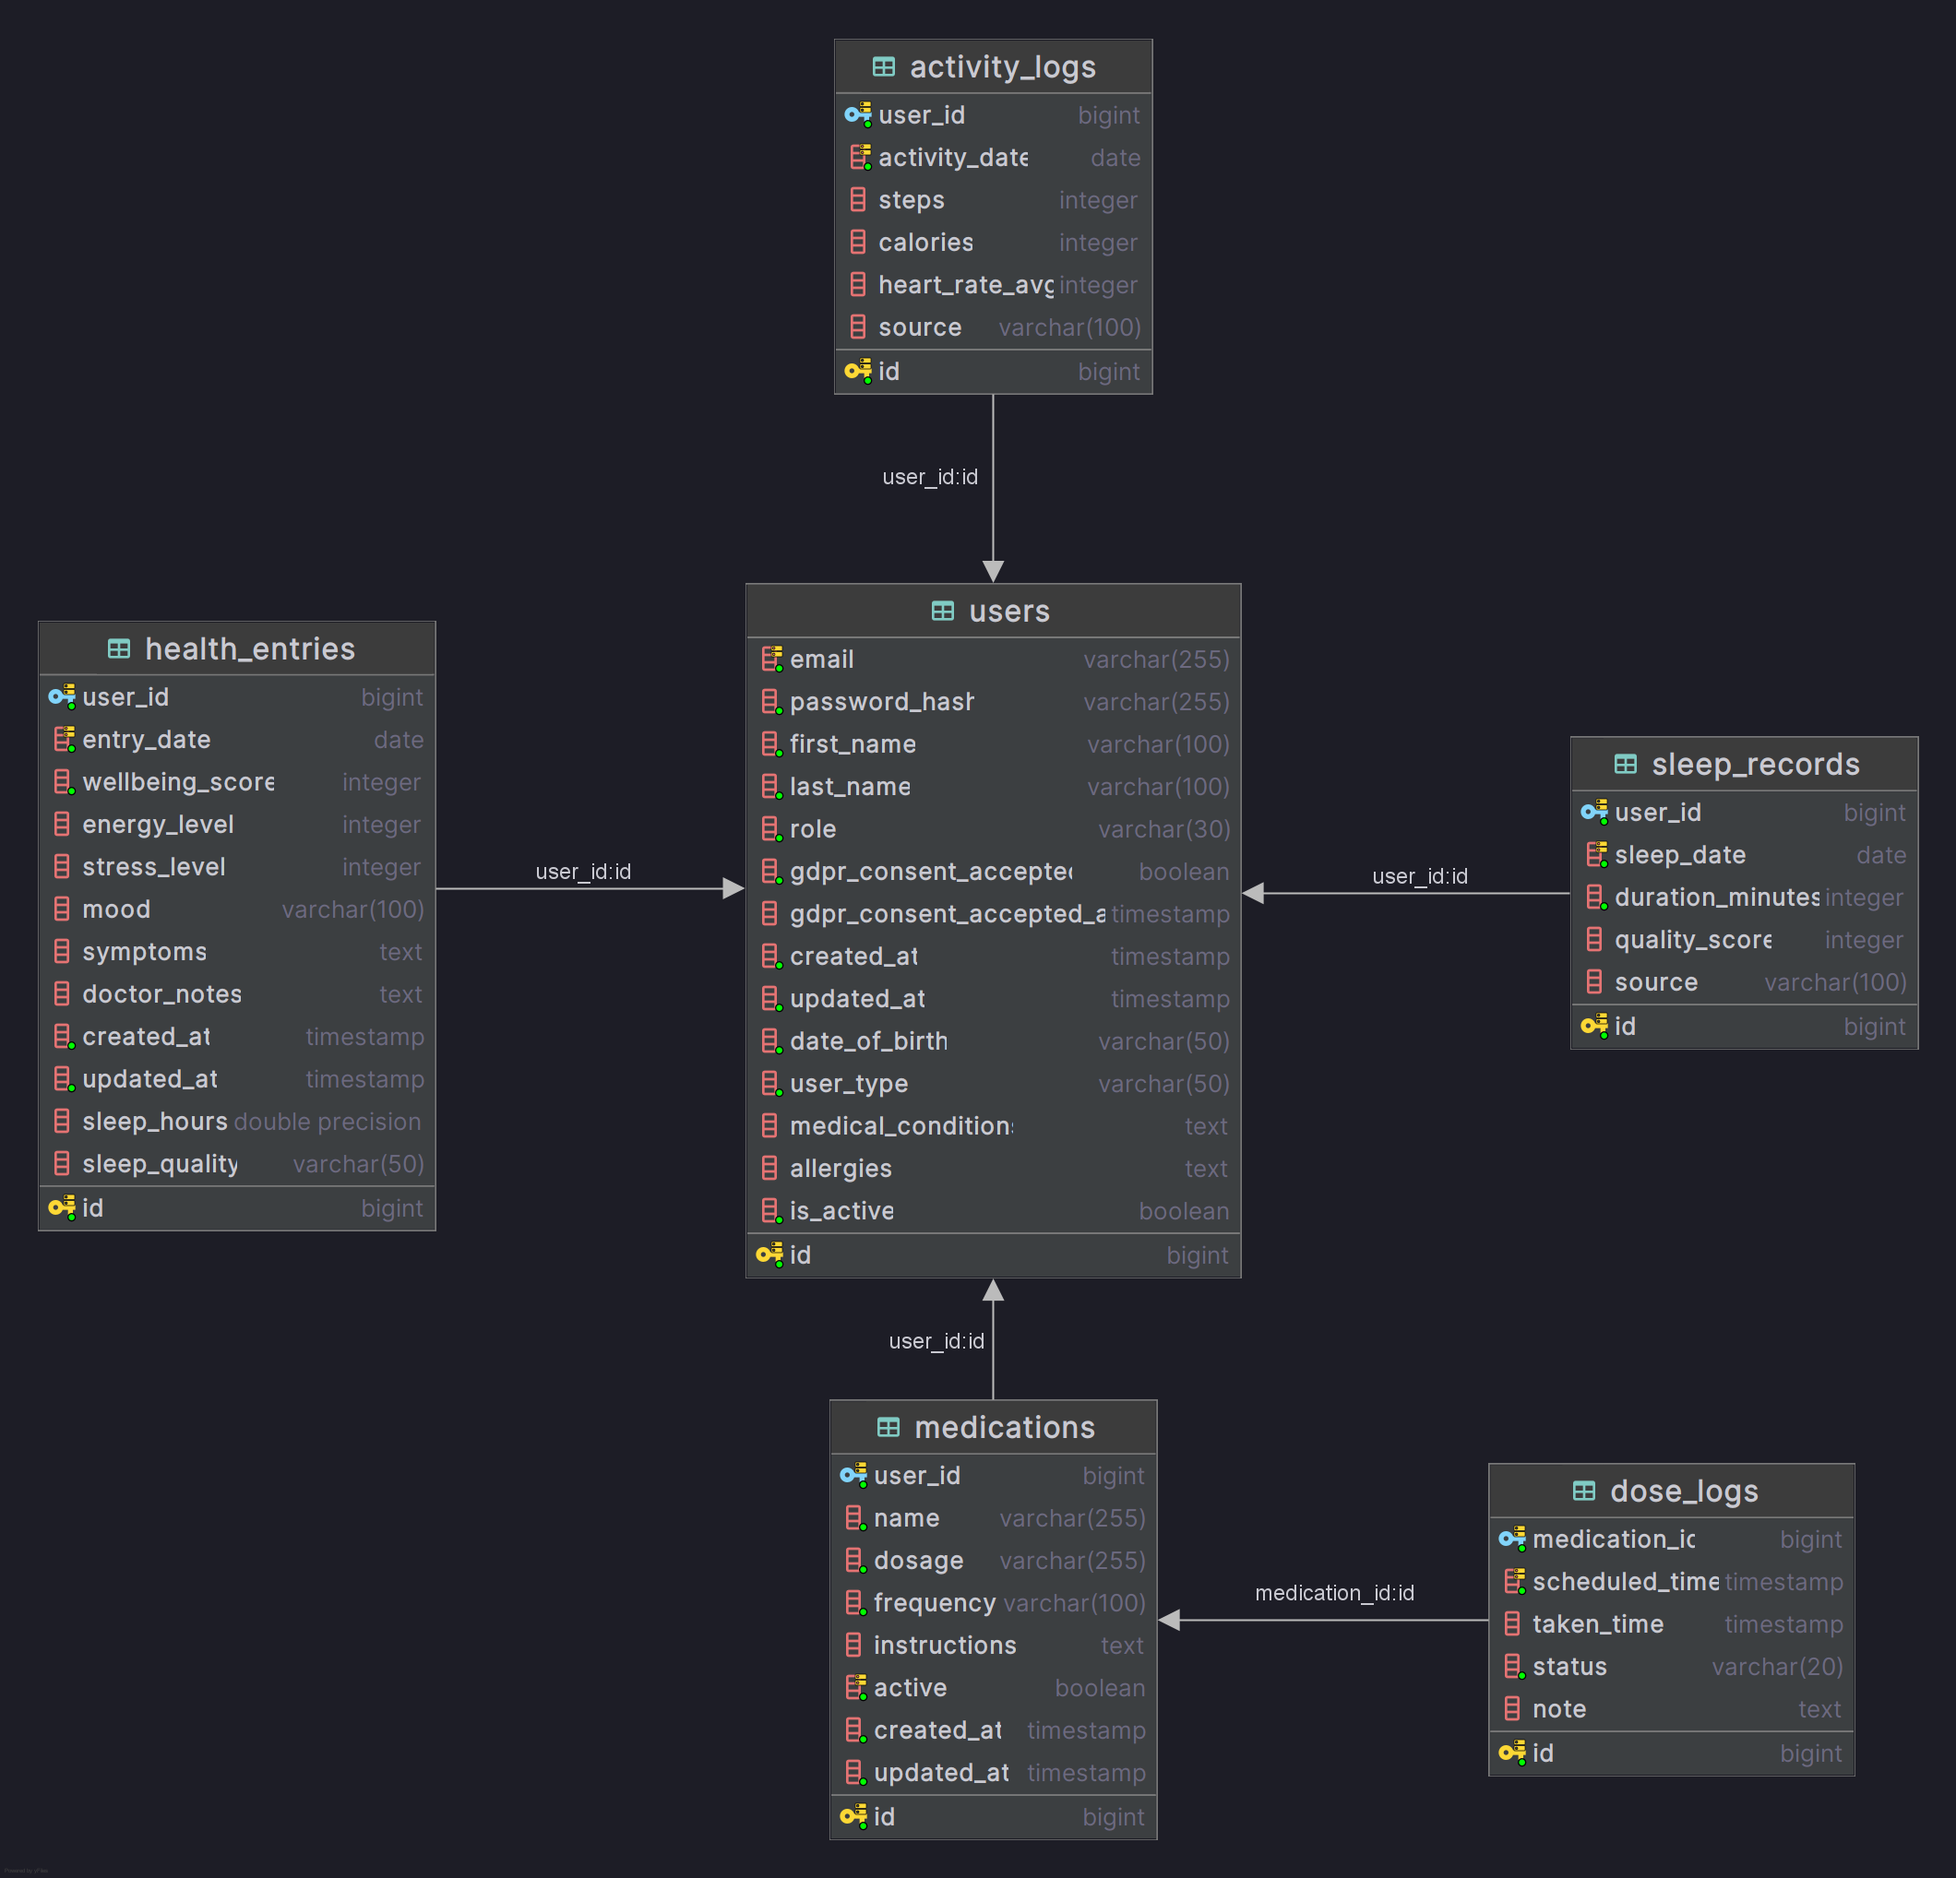
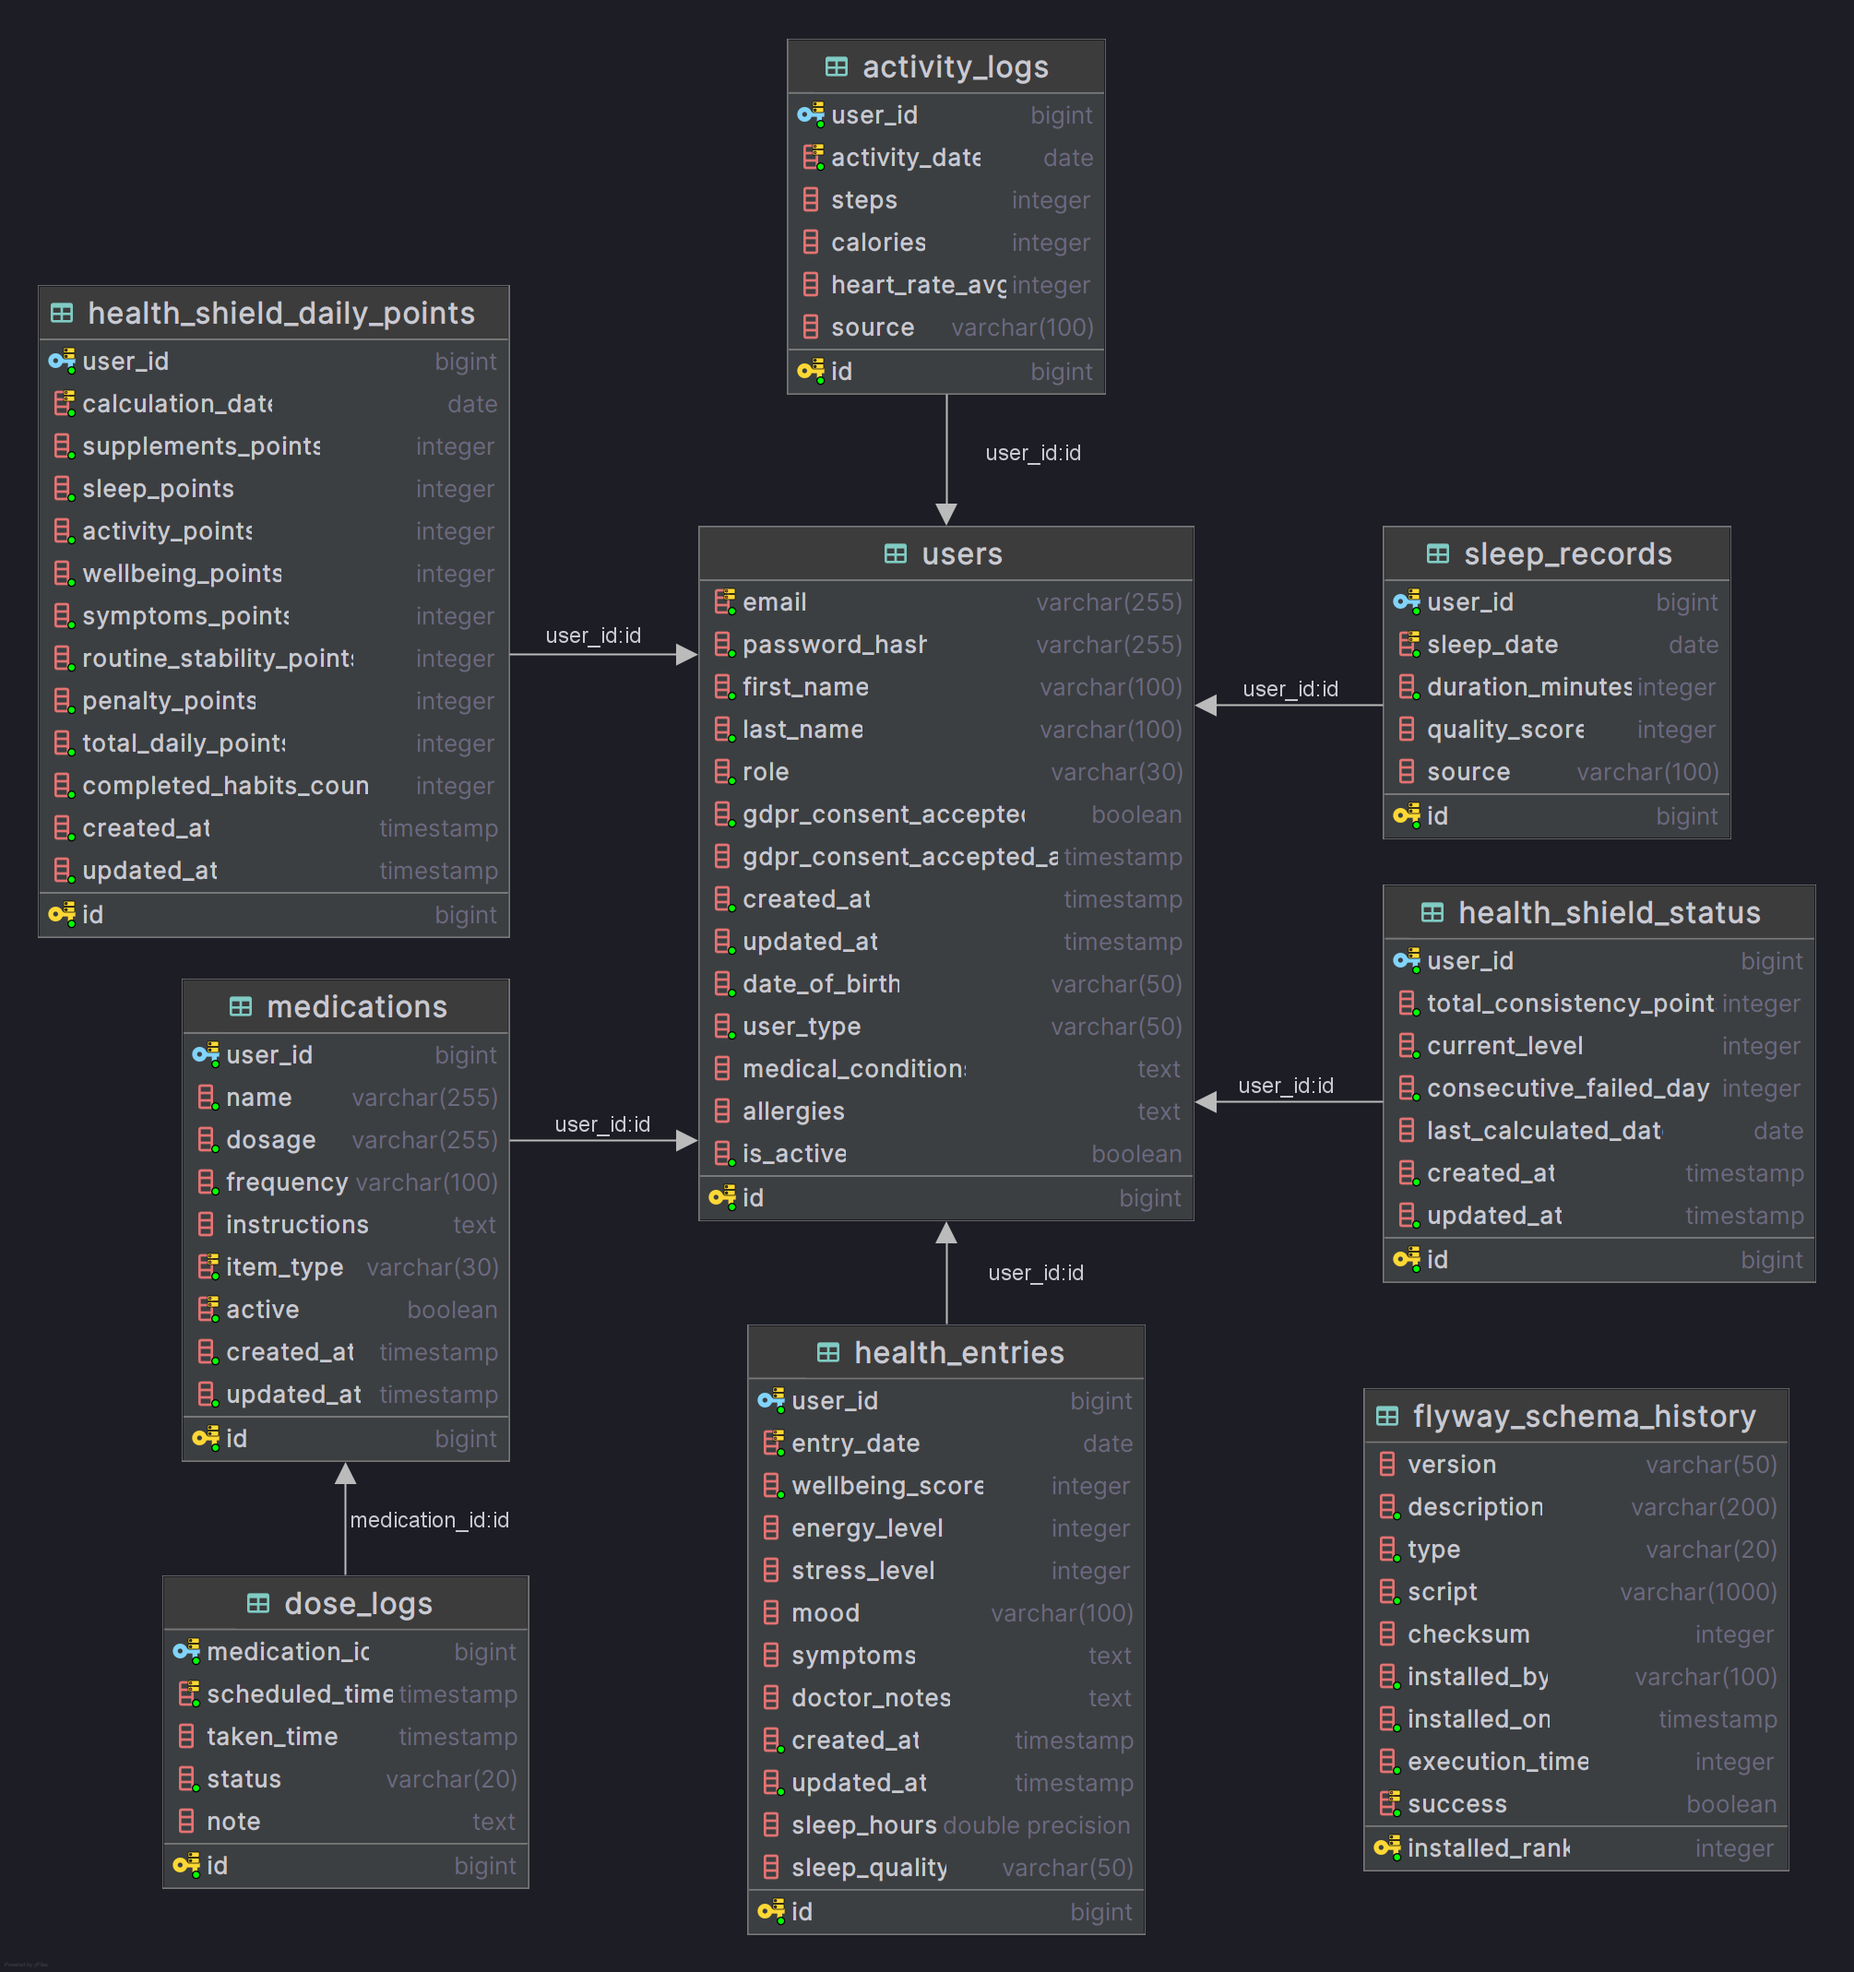
Posodobljena backend dokumentacija za Zdravstveni scit.

diff --git a/apps/api/README.md b/apps/api/README.md
@@ -12,20 +12,25 @@ src/main/kotlin/com/healthwithme/api/
 │   ├── Medicine.kt
 │   ├── WearableDevice.kt
 │   ├── SportActivity.kt
-│   └── HealthAlert.kt
+│   ├── HealthAlert.kt
+│   ├── HealthShieldStatus.kt
+│   └── HealthShieldDailyPoints.kt
 ├── dto/                # Data Transfer Objects
 │   ├── UserDto.kt
 │   ├── HealthEntryDto.kt
 │   ├── MedicineDto.kt
 │   ├── WearableDeviceDto.kt
-│   └── AlertAndActivityDto.kt
+│   ├── AlertAndActivityDto.kt
+│   └── HealthShieldDto.kt
 ├── repository/         # JPA Repositories for data access
 │   ├── UserRepository.kt
 │   ├── HealthEntryRepository.kt
 │   ├── MedicineRepository.kt
 │   ├── WearableDeviceRepository.kt
 │   ├── HealthAlertRepository.kt
-│   └── SportActivityRepository.kt
+│   ├── SportActivityRepository.kt
+│   ├── HealthShieldStatusRepository.kt
+│   └── HealthShieldDailyPointsRepository.kt
 ├── service/            # Business logic layer
 │   ├── UserService.kt
 │   ├── HealthEntryService.kt
@@ -33,7 +38,8 @@ src/main/kotlin/com/healthwithme/api/
 │   ├── WearableDeviceService.kt
 │   ├── HealthAlertService.kt
 │   ├── SportActivityService.kt
-│   └── HealthAnalysisService.kt
+│   ├── HealthAnalysisService.kt
+│   └── HealthShieldService.kt
 ├── controller/         # REST API endpoints
 │   ├── UserController.kt
 │   ├── HealthEntryController.kt
@@ -41,7 +47,8 @@ src/main/kotlin/com/healthwithme/api/
 │   ├── WearableDeviceController.kt
 │   ├── HealthAlertController.kt
 │   ├── SportActivityController.kt
-│   └── ExportController.kt
+│   ├── ExportController.kt
+│   └── HealthShieldController.kt
 ├── config/             # Spring configuration
 │   └── SecurityConfig.kt
 ├── exception/          # Exception handling
@@ -221,9 +228,9 @@ class UserServiceTest {
 
 ### 3. **Medicine Management**
 
-- Add medicines with dosage and frequency
-- Track active medications
-- Record side effects
+- Manage medicines, vitamins, supplements, and other tracked health items.
+- Items are distinguished by item_type.
+- Track active medications and record side effects.
 
 ### 4. **Wearable Device Integration**
 
@@ -256,6 +263,10 @@ class UserServiceTest {
 - Track energy levels
 - Detect symptom patterns
 
+### 9. **Health Shield**
+
+Health Shield provides a backend endpoint for returning the user's current health consistency status, including shield level, total consistency points, daily points breakdown, progress to the next level, and inactivity penalty information.
+
 ## Running the Application
 
 ### Prerequisites
@@ -276,13 +287,14 @@ cd apps/api
 2. **Configure database** in `application.yaml`:
 
 ```yaml
-datasource:
-  url: ${DATABASE_URL}
-  username: ${DATABASE_USERNAME}
-  password: ${DATABASE_PASSWORD}
+spring:
+  datasource:
+    url: ${DATABASE_URL:jdbc:postgresql://localhost:5432/healthtrackme}
+    username: ${DATABASE_USERNAME:healthtrackme}
+    password: ${DATABASE_PASSWORD:healthtrackme}
 ```
 
-Actual values are stored locally in a `.env` file, and in production as environment variables in GitHub Secrets or the hosting environment.
+Actual values are stored locally in a `.env` file, and in production as environment variables in GitHub Secrets or the hosting environment. For local development, these defaults work with the provided Docker Compose PostgreSQL setup.
 
 3. **Run the application**
 
@@ -306,28 +318,40 @@ The API will be available at `http://localhost:8080`
 
 The backend uses PostgreSQL, Spring Data JPA/Hibernate, and Flyway migrations. The `users` table is the central table, while health entries, medicines, sleep, and sport activities are connected to the user via foreign key relationships.
 
+- `health_shield_status` stores the current Health Shield state for each user.
+- `health_shield_daily_points` stores the daily point calculation breakdown.
+- `medications` now includes `item_type` for MEDICATION, VITAMIN, SUPPLEMENT, and OTHER.
+
 <div align="center">
   <img src="../../docs/database/ER-diagram.png" alt="ER Diagram" width="700">
 </div>
 
 ## Testing
 
+The project includes test coverage for various services and controllers, including the newly added `HealthShieldServiceTest` and `HealthShieldControllerTest`. Currently, there are 11 tests covering the Health Shield backend logic and controller.
+
+You can run the tests using Maven:
+
 Linux/macOS:
 
 ```bash
-./mvnw clean test
+./mvnw test
+./mvnw clean install
 ```
 
 Windows:
 
 ```cmd
-.\mvnw.cmd clean test
+.\mvnw.cmd test
+.\mvnw.cmd clean install
 ```
 
 ## CI/CD
 
 The backend uses a GitHub Actions workflow:
 `.github/workflows/backend-ci.yml`
+
+The CI pipeline runs the Maven test suite, which includes the Health Shield service and controller tests.
 
 The pipeline checks:
 
@@ -381,3 +405,7 @@ The pipeline checks:
 - `GET /api/v1/export/sport-activities/csv/{userId}` - Export activities
 - `GET /api/v1/export/summary/{userId}` - Get health summary
 - `GET /api/v1/export/all/{userId}` - Export all data
+
+### Health Shield
+
+- `GET /api/health-shield/{userId}` - Get user's current Health Shield status
